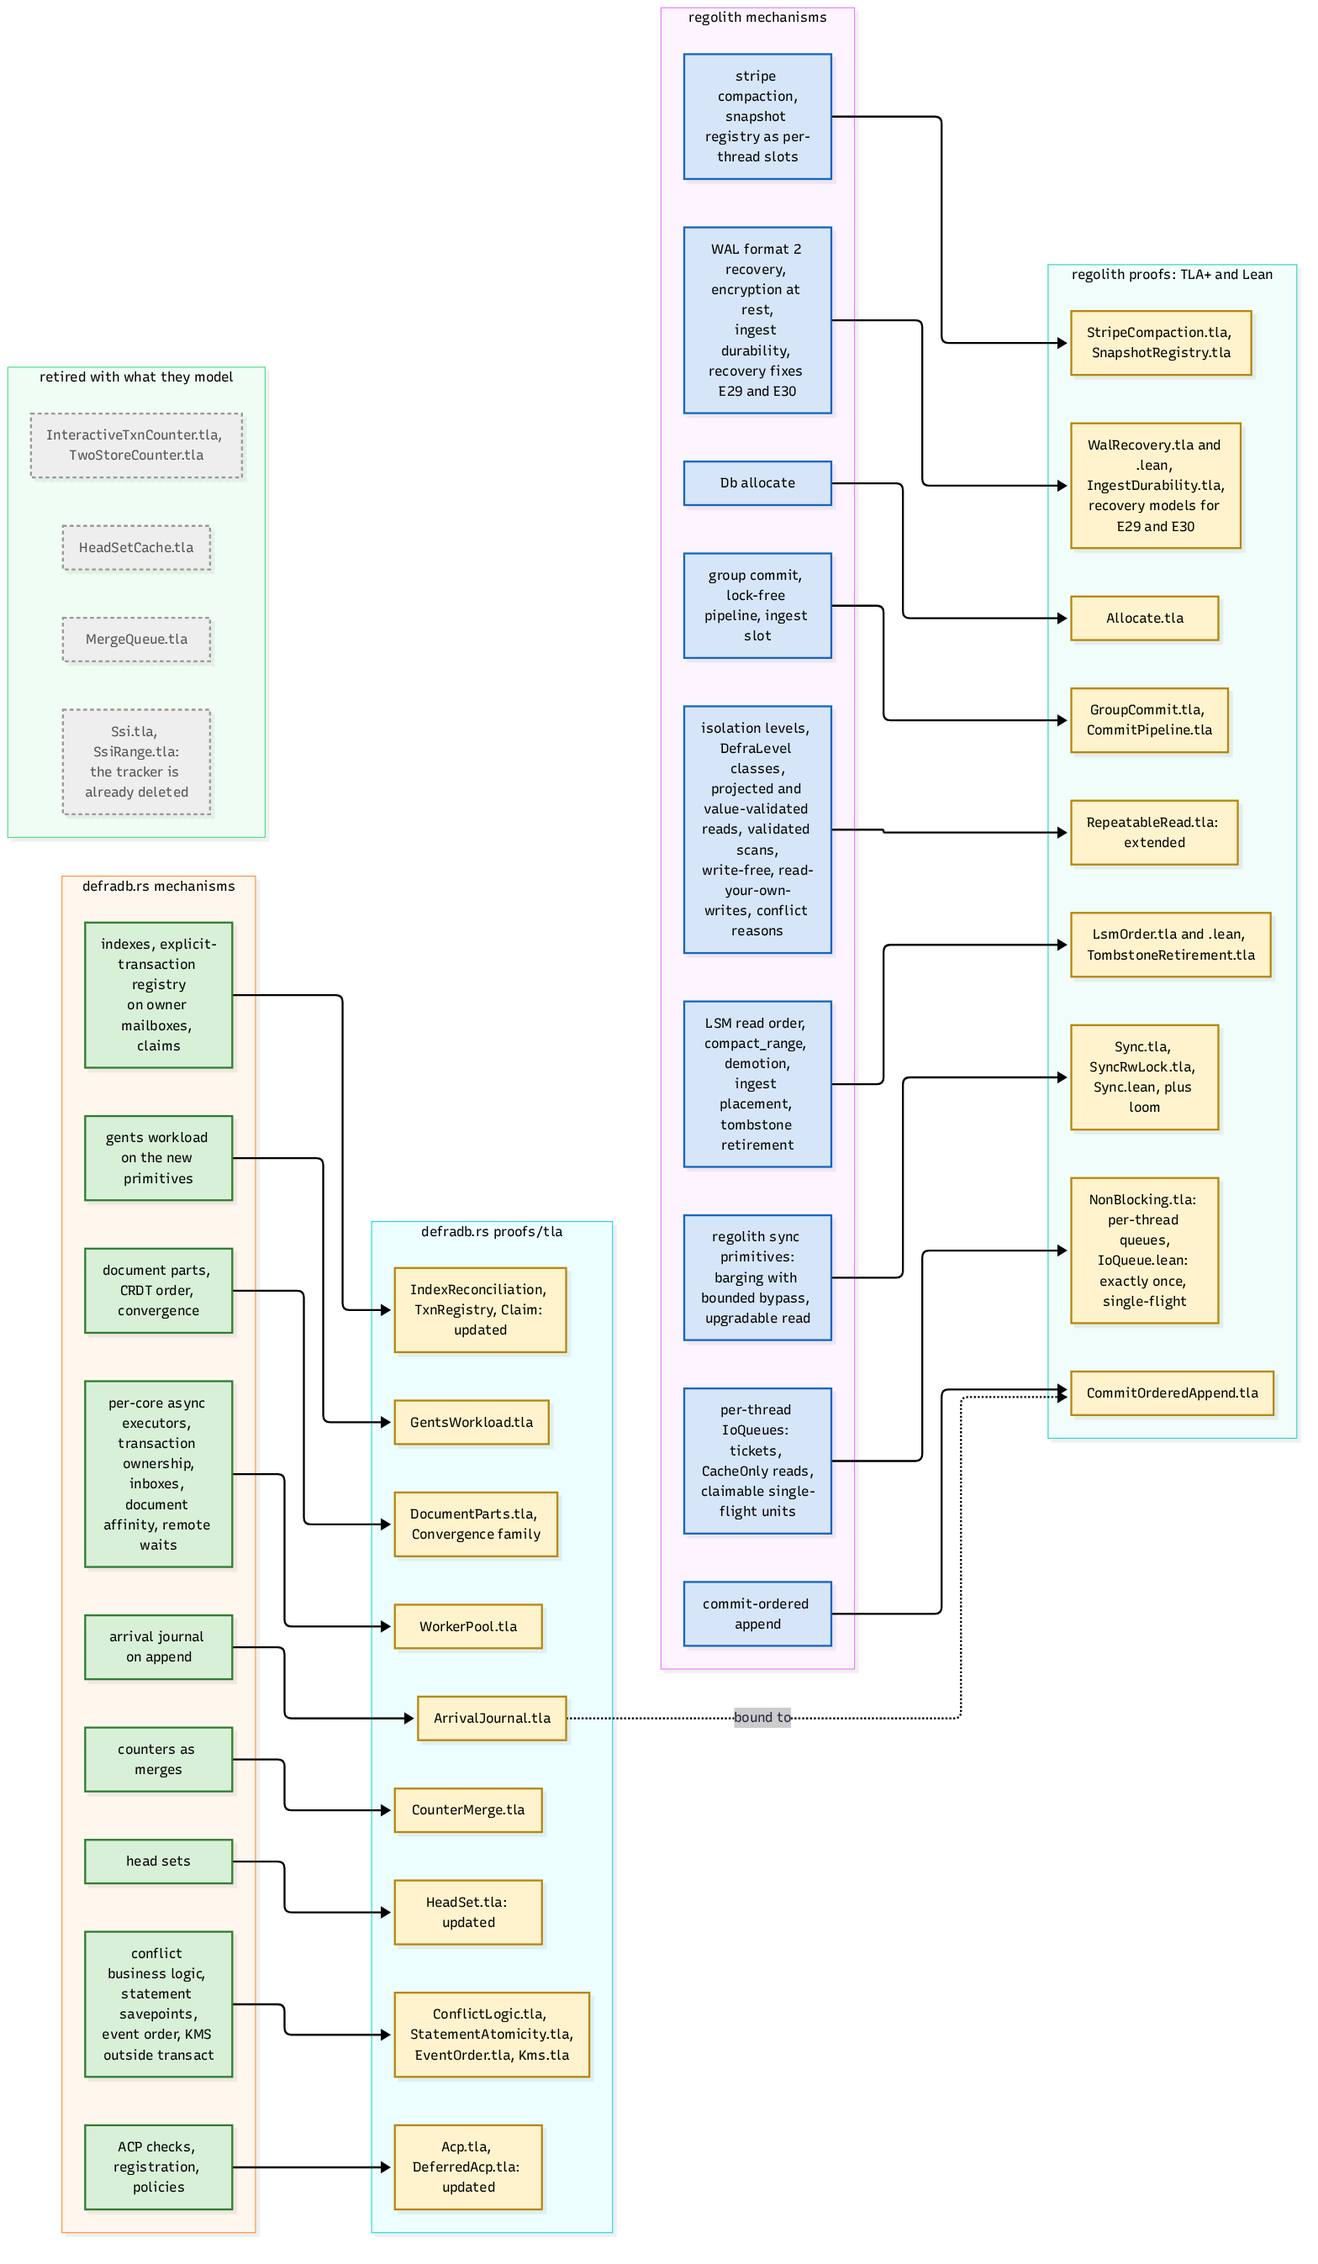
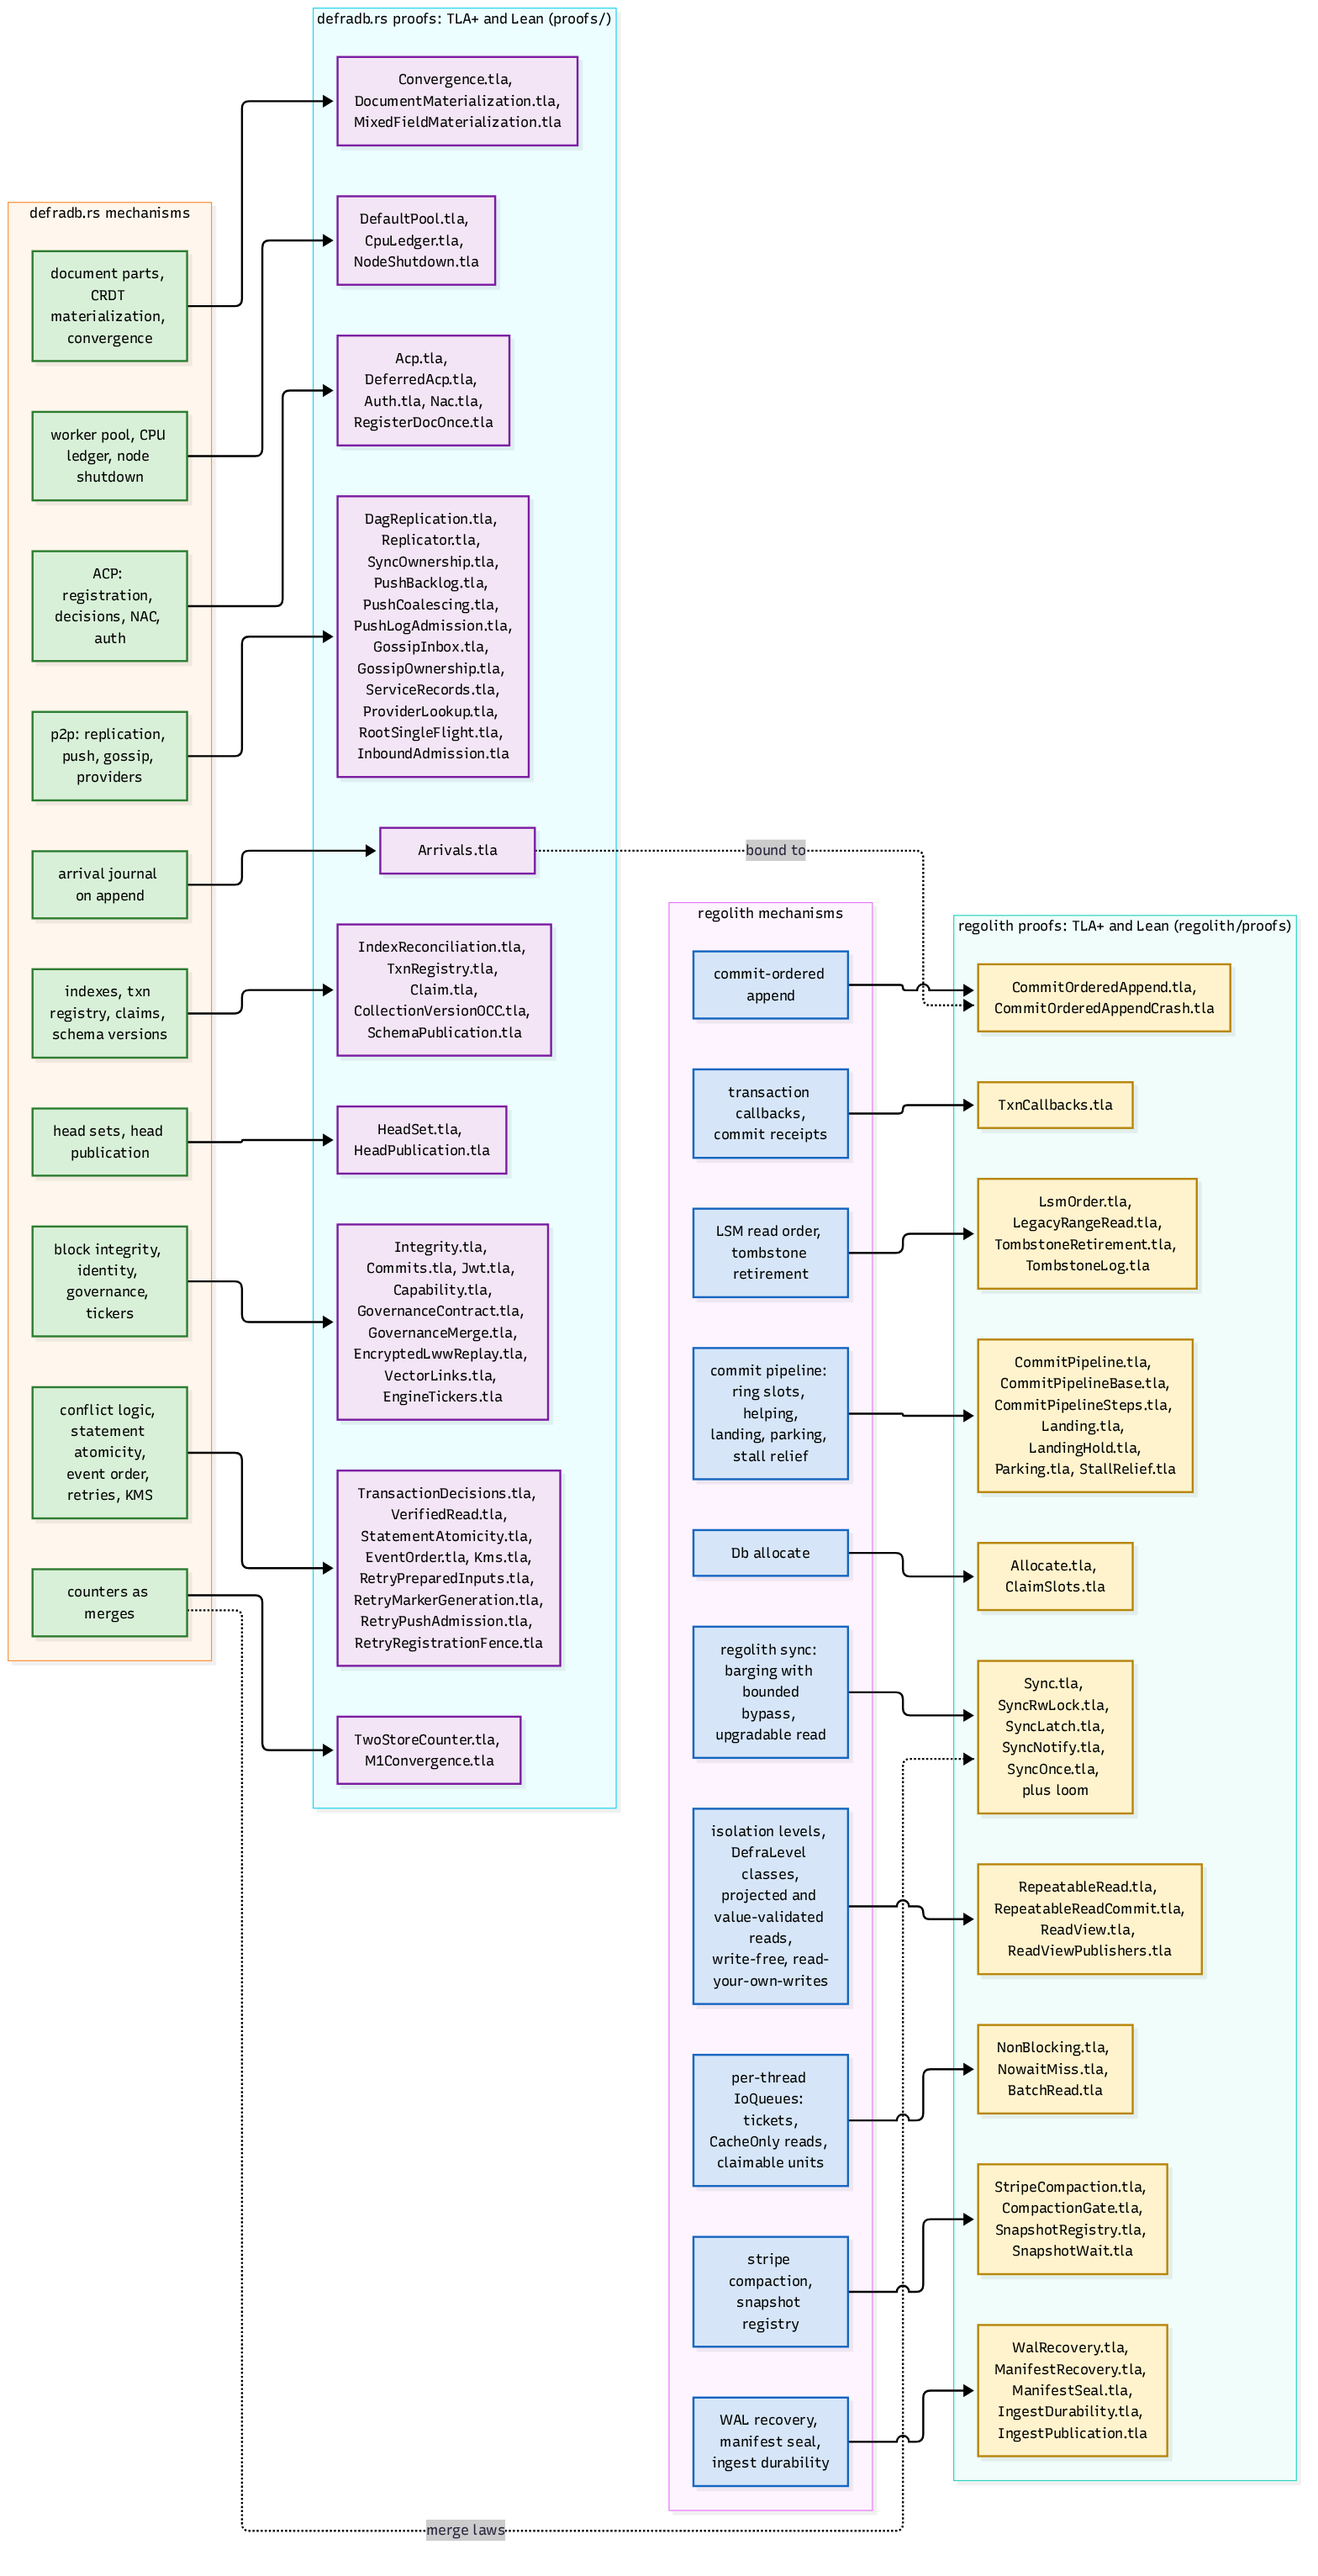
docs(book): corrected proofs map diagram, kovan and IO separation sections

diff --git a/docs/book/src/memory/index.md b/docs/book/src/memory/index.md
@@ -2,7 +2,8 @@
 
 defradb.rs holds a lot of derived data: every version of every field, index entries,
 blocks shared across documents, advisory counters. This chapter is how data *leaves*,
-and why nothing leaves by accident.
+how the concurrent machinery's own memory is reclaimed, and how I/O is kept off the
+compute path - and why nothing leaves by accident.
 
 ## No compaction filter, on principle
 
@@ -60,6 +61,90 @@ Deletion markers (`d/del/`) are read before materializing a document and survive
 their history is pruned. LWW tombstones (empty bytes, priority intact) survive in the
 stored document for the same reason: a late merge from a replica must still lose to
 the delete.
+
+## The other reclamation: memory inside the concurrent machinery
+
+The chapter so far reclaimed *data*. A lock-free system has a second, harder
+reclamation problem: the memory of its own concurrent structures. When several cores
+traverse a shared structure without locks, nobody may `drop()` or `free()` a node
+while another core may still hold a pointer to it - and knowing when no core does,
+without a lock, is *the* classical problem of wait-free programming.
+
+defradb.rs's answer is **kovan**, a wait-free memory reclamation library that the whole
+stack reaches through `regolith::sync` (kovan 0.1.x, with `kovan-map`,
+`kovan-queue` and `kovan-channel` beside it). Its shape:
+
+- A reader **pins** (one guard), **loads** pointers under the guard, and the guard
+  keeps every loaded pointer valid until it drops. Read overhead is one atomic load
+  and one comparison.
+- A writer that unlinks a value **retires** it: the value is freed only when no
+  guard can still reach it. Reclamation is wait-free - pin, retire, guard drop and
+  flush each complete in a bounded number of the caller's own steps, whatever other
+  threads (including stalled ones) do.
+- Memory is **bounded**: unlike epoch-based schemes, whose pending-retirement lists
+  grow with the slowest thread, batches that cannot yet be placed are accumulated or
+  adopted by other threads, never dropped and never unbounded, even across thread
+  exit.
+- Retired nodes can be recycled through a **free list** (`Reclaimable`), so a
+  structure that publishes one node per update allocates nothing in the steady
+  state.
+
+This is what sits under every `Atom`-swapped snapshot in the system. When the
+[ACP policy snapshot](../acp/zanzibar.md) publishes a new immutable policy table with
+one compare-and-swap, the *old* table's memory is retired and freed by kovan exactly
+when the last reader's guard drops - no reference-count handoff, no epoch thread, no
+lock. The same holds for the collections cache's epoch-guarded swaps and the
+document-change coalescers in [events](../events/index.md). The maps and queues built
+on it (`HopscotchMap` per-core hash maps, `ArrayQueue`/`SegQueue`, the channels the
+[inboxes](../threading/pool.md) use) inherit the same guarantee for every node they
+unlink. The reclamation protocol itself, and the maps, are modelled in TLA+ and Lean
+in kovan's own proofs tree - the rule "no logic change without its models" holds one
+layer below this repository too.
+
+One more reclamation loop, small and instructive: the async synchronization
+primitives (`regolith::sync`'s locks, semaphores, latches, notify) park a **waiter
+node** when a contended acquire suspends. Up to three parties may hold that node
+(the waiting future, the primitive's queue, a wake list); each holds one reference
+bit in the node's state word, and whichever party clears the last bit returns the
+node to its primitive's node pool. No other path frees a node, so a node is never
+reachable by a party that has let it go - and, as the code beside it says, *no epoch
+scheme is needed*: reference bits plus a pool replace general-purpose reclamation for
+this one shape.
+
+## How I/O is separated from compute
+
+Reclamation of *waits* follows the same separation as everything else in the
+threading model: I/O never runs on a data-path core, and a data-path core never
+blocks on I/O.
+
+- **Every device operation is a unit on a per-thread `IoQueue`.** A `CacheOnly` read
+  miss or a pending commit ticket becomes a unit on the *asking thread's own* queue;
+  the completion arrives on that same queue, and only there
+  ([the worker pool](../threading/pool.md)). A busy core is never woken to service
+  someone else's completion, and no core ever waits for a lock held by a thread that
+  is itself blocked on the device.
+- **Units are claimable, single-flight.** A block read is one unit no matter how many
+  tasks await that block; a commit group's fsync is one unit claimed by the first
+  member core to poll. The memory bound follows: N waiters cost one in-flight device
+  operation and N waiter nodes recycled through their pools.
+- **Tasks wait; threads do not.** Every wait in the data path is an `.await` on a
+  future driven by the worker's own waker: the task suspends, the core runs other
+  work, the completion wakes exactly that task. The synchronization primitives
+  themselves make no system call - no futex, no thread park, no clock read - so
+  "waiting" costs a parked waiter node, not a kernel call.
+- **Background I/O has its own threads.** Compaction and log writeback, the only
+  threads the engine starts, are placed by the pool as background-class threads,
+  never on a caller's core ([LSM structure](../storage/lsm.md)). In-memory
+  environments start none and run compaction inline by necessity.
+- **The network is one runtime away.** Remote inputs are resolved at the
+  [edge](../threading/edge.md) before a transaction; a worker never holds memory
+  waiting on the network mid-transaction, because the doctrine forbids the network
+  inside the retried closure at all.
+
+The memory-accounting consequence is the point of this section: because waits are
+per-task nodes (bounded, pooled, recycled by kovan and by the reference-bit scheme)
+rather than per-thread kernel waits, the system's memory for concurrency is
+proportional to in-flight work, not to thread count or device latency.
 
 ## Memory in the small
 

diff --git a/docs/book/src/proofs/index.md b/docs/book/src/proofs/index.md
@@ -17,6 +17,15 @@ Some theorems need both halves: **DAG convergence** = (TLA+: every node eventual
 receives every delta under eventual connectivity) x (Lean: applying deltas in any
 order yields the same state). Neither half alone is convergence.
 
+## The map
+
+Every mechanism, in regolith and in defradb.rs, mapped to the models that cover it,
+under the names they ship with in each repo's proofs tree. (This map supersedes the
+migration-era sketch: several models were renamed as they landed, and the rows below
+were checked against `regolith/proofs/tla/` and this repo's `proofs/tla/`.)
+
+![Proofs map: mechanisms to models, regolith and defradb.rs](../diagrams/12-proofs-map.png)
+
 ## What is modelled
 
 The coverage map in `proofs/README.md` lists 40 modelled families. Representative
